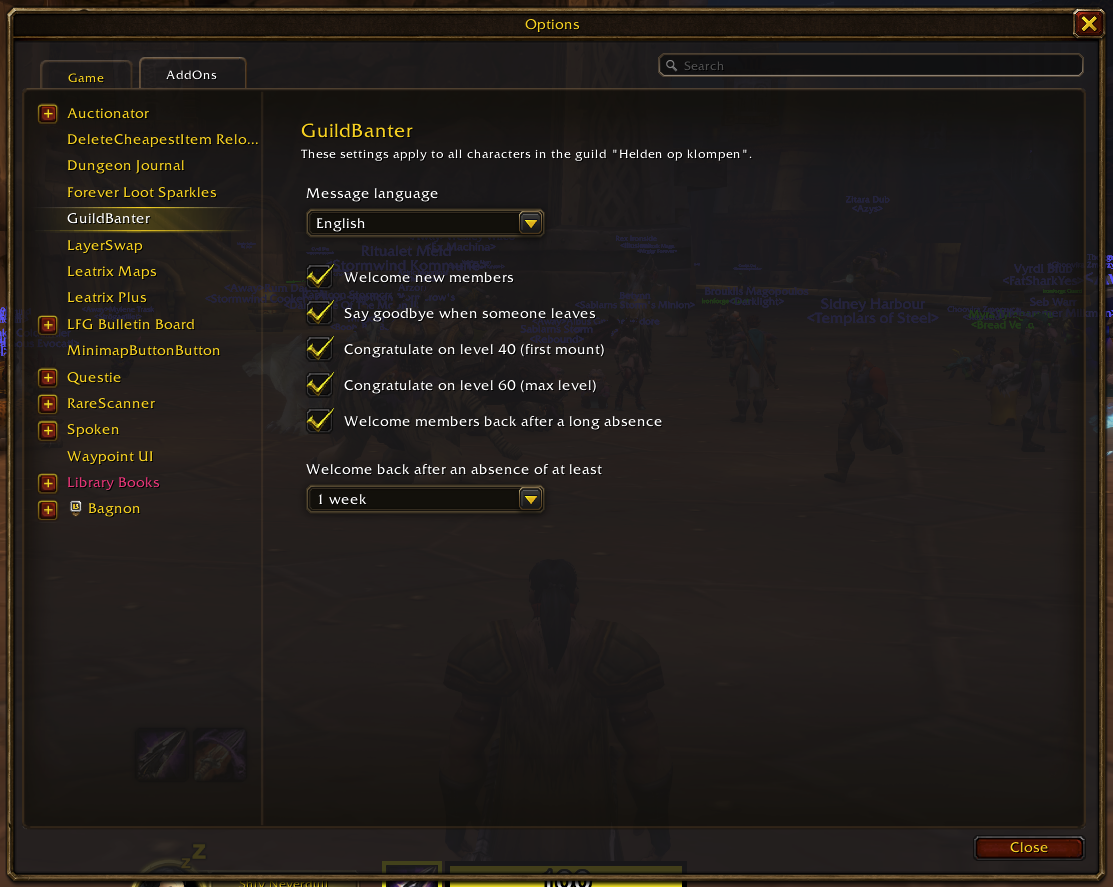
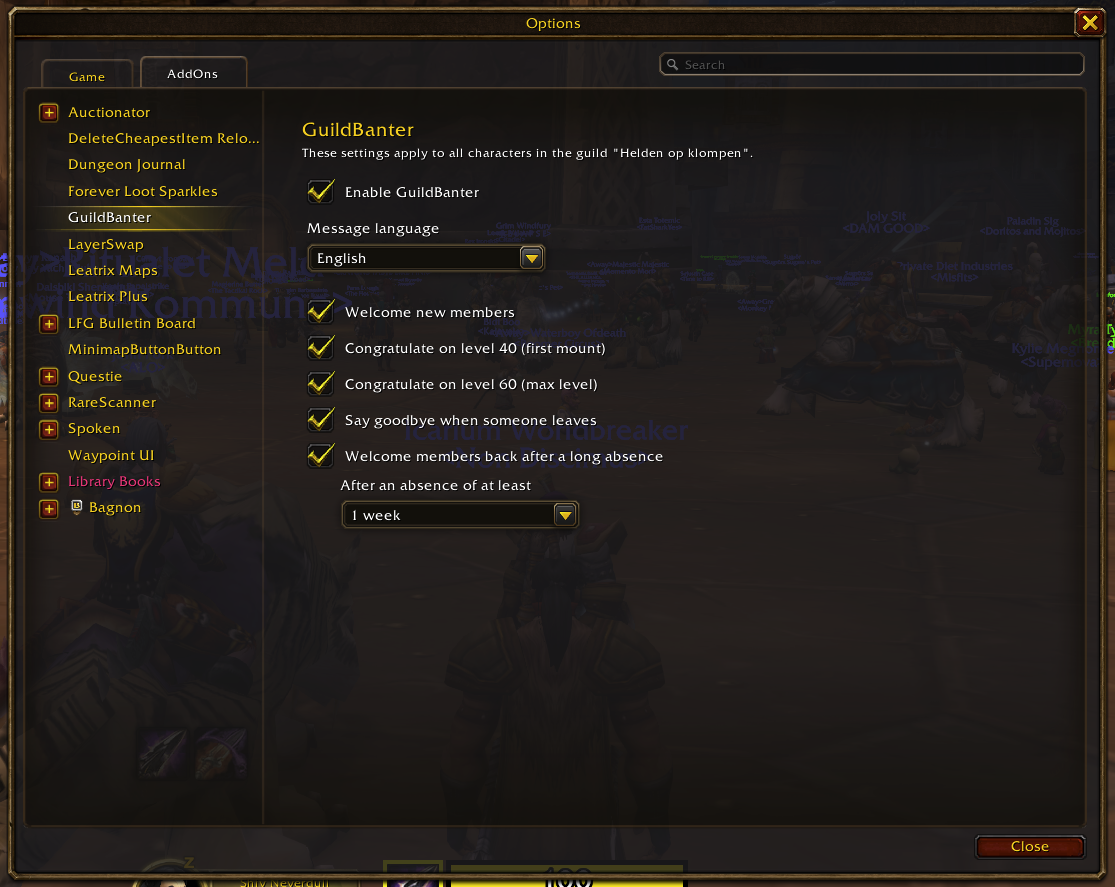
docs: document the master switch, new settings layout and dedupe

diff --git a/README.md b/README.md
@@ -18,7 +18,7 @@ A World of Warcraft Classic addon that posts funny messages in guild chat when s
 
 - **Five languages:** English, Nederlands, Deutsch, Français and Español. You pick the language yourself, so it can differ from your game client.
 - **No repeats:** every line comes by once before any line is used again.
-- **No double messages:** if several guild members run GuildBanter, each waits a random 1 to 8 seconds. If someone already mentioned the name in guild chat, it stays quiet.
+- **No double messages:** if several guild members run GuildBanter, each waits a random 1 to 8 seconds. Before posting, GuildBanter sends a hidden addon message; if another GuildBanter already posted about the same event, it stays quiet. What players type themselves does not count.
 - **Settings per guild:** language and options are saved per guild, so an alt in another guild can have its own settings.
 
 The messages are posted in guild chat **by your character**. Turn off anything you don't want to say yourself.
@@ -39,15 +39,17 @@ Open them with `/gb`, or via Esc > Options > AddOns > GuildBanter.
 
 <img src=".github/screenshots/options.png" alt="The GuildBanter settings panel" width="560">
 
+- **Enable GuildBanter:** the main switch for this guild, on by default. Turn it off to silence everything without touching the other checkboxes; they are greyed out while it is off.
 - **Message language:** English (default), Nederlands, Deutsch, Français or Español.
-- **One checkbox per event:** welcome, goodbye, level 40, level 60 and welcome back. All are on by default.
-- **Welcome back after an absence of at least:** 1 week, 2 weeks (default), 1 month, 2 months or 3 months.
+- **One checkbox per event,** in the order of a guild member's life: welcome, level 40, level 60, goodbye and welcome back. All are on by default.
+- **After an absence of at least:** sits right under welcome back and sets when someone counts as back: 1 week, 2 weeks (default), 1 month, 2 months or 3 months.
 
 ## Commands
 
 | Command | What it does |
 |---|---|
 | `/gb` | Opens the settings |
+| `/gb off` / `/gb on` | Turns all messages off or back on for this guild in one go, for example during a raid. Same as the "Enable GuildBanter" checkbox at the top of the settings. Your other checkboxes are kept. |
 | `/gb test hi\|bye\|back\|40\|60 [class] [name]` | Shows a sample message, styled as guild chat, in your own chat window only. Nothing is sent to the guild. Example: `/gb test 40 warlock Zarnok` |
 
 `/gw` still works as an alias for players coming from GuildWelcome.
@@ -60,7 +62,7 @@ Open them with `/gb`, or via Esc > Options > AddOns > GuildBanter.
 
 ## Development
 
-`check.lua` validates all five language files against the Dutch structure: the same tables and counts, `{name}` in every chat line, at most 255 characters per message and no em dashes. Run it from the addon folder:
+`check.lua` validates all five language files against the Dutch structure: the same tables and counts, `{name}` in every chat line, at most 255 characters per message and no em dashes. The release workflow runs it before packaging, so a broken language file never reaches CurseForge. Run it yourself from the addon folder:
 
 ```bash
 lua check.lua
